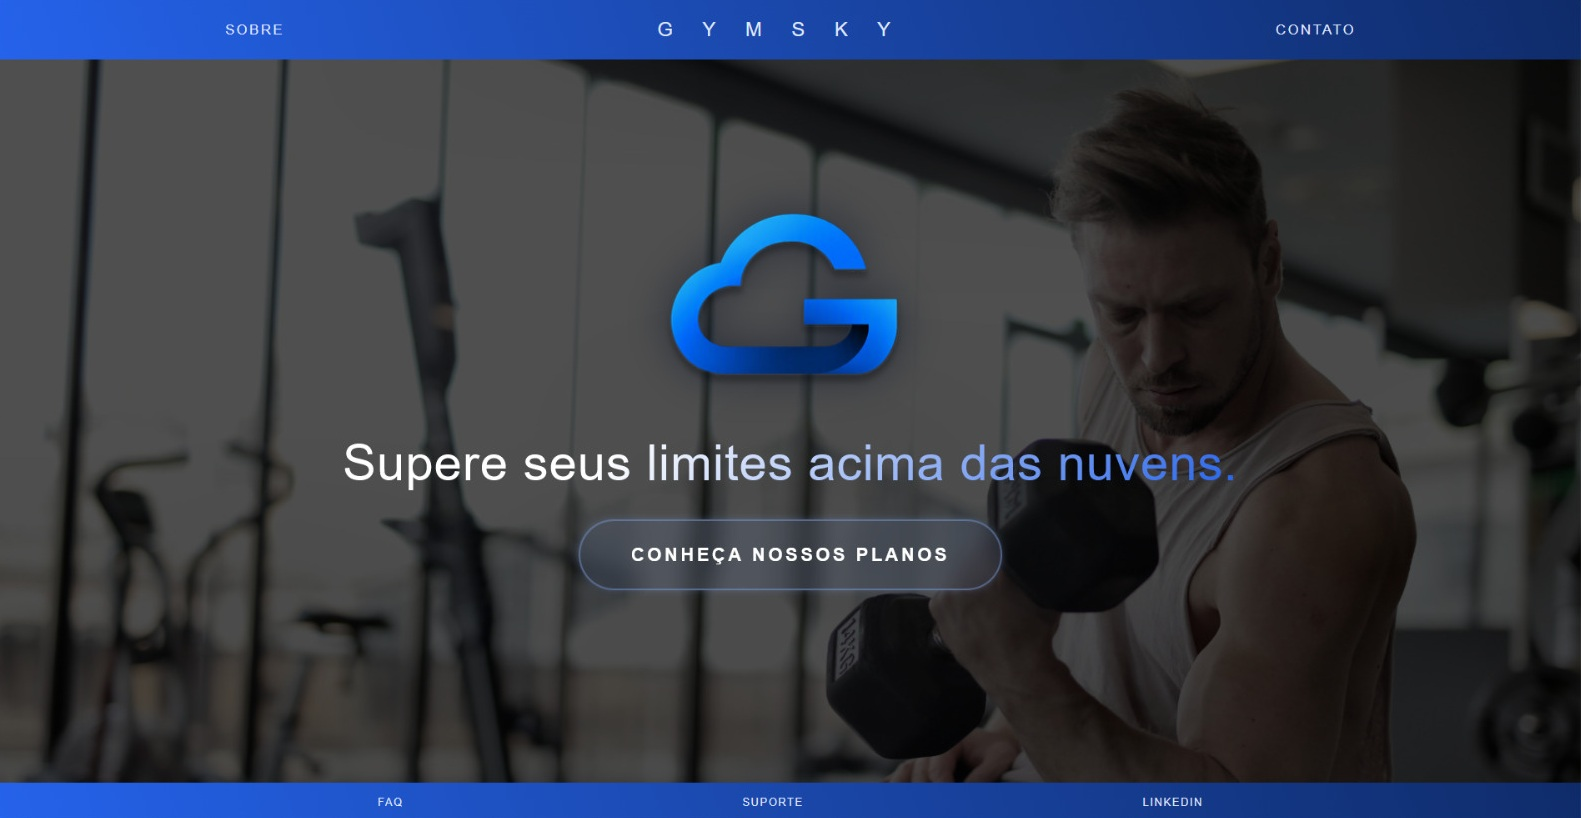
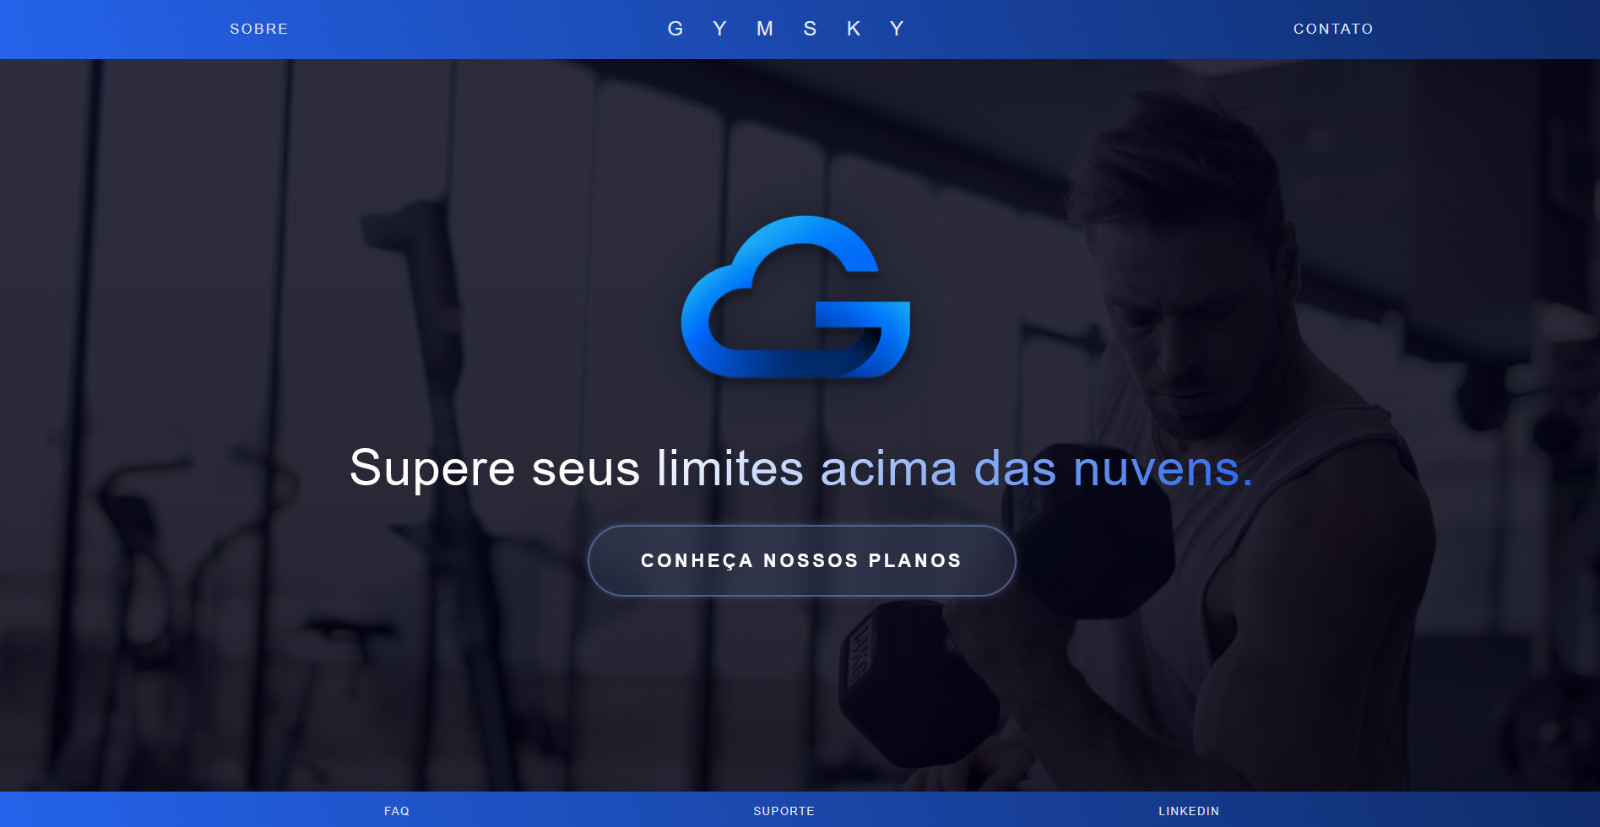
cor do fundo atualizada

diff --git a/style.css b/style.css
@@ -9,8 +9,7 @@
 }
 
 body {
-    background-color: #000;
-    color: #fff;
+    background-color: #02022c;
     overflow-x: hidden;
 }
 
@@ -59,7 +58,7 @@ body {
     display: flex;
     justify-content: center;
     align-items: center;
-    background-image: url('img/background.svg'); 
+    background: linear-gradient(rgba(0, 0, 0, 0.445), rgba(0, 0, 0, 0.527)), url('img/background.svg');
     background-repeat: no-repeat;
     background-position: center center;
     background-size: cover;
@@ -80,7 +79,7 @@ body {
     width: 500px;
     height: auto;
     margin-bottom: -100px;
-    filter: drop-shadow(0 0 25px rgba(7, 17, 39, 0.637));
+    filter: drop-shadow(0 0 25px #071127a2);
 }
 
 .hero h1 {
